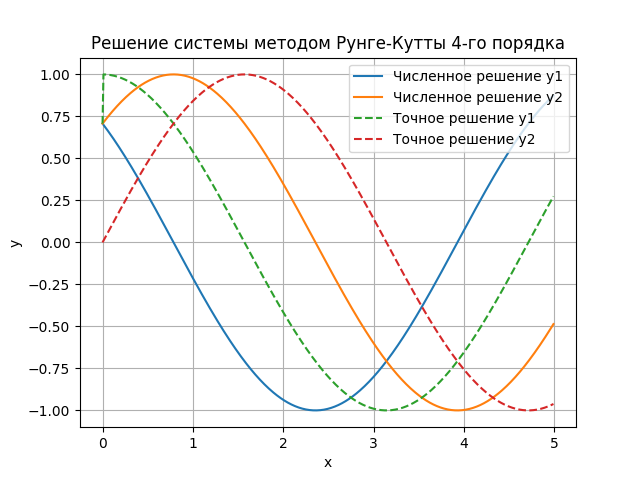
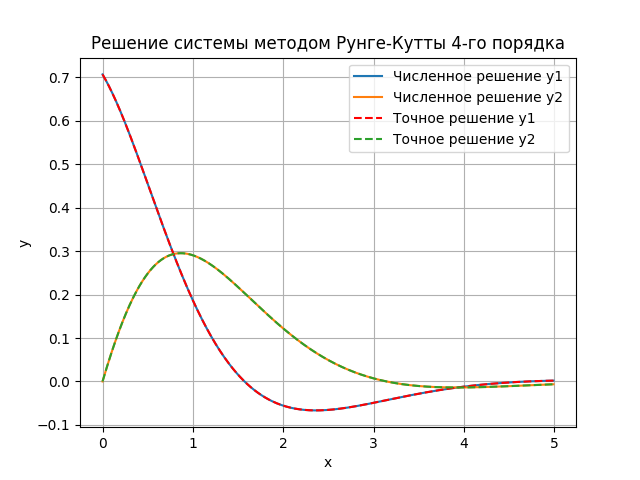
done

diff --git a/kursovaya/task2.py b/kursovaya/task2.py
@@ -23,7 +23,7 @@ def exact_solution(x, e):
 def max_error(y_num, y_exact):
     return np.max(np.abs(y_num - y_exact))
 
-def solve_system(h_values, e):
+def solve_system_e(h_values, e):
     max_errors = []
     for h in h_values:
         t_values = np.arange(t0, t_end, h)
@@ -36,25 +36,50 @@ def solve_system(h_values, e):
             y2_values[i] = y2
             y1, y2 = rk4_step(y1, y2, h)
         y1_exact, y2_exact = exact_solution(t_values, e)
-        max_errors.append(max_error(y1_values, y1_exact))
+        max_errors.append(max(max_error(y1_values, y1_exact), max_error(y2_values, y2_exact)))
     return max_errors
 
+def solve_system_eh4(h_values, e):
+    max_errors = []
+    for h in h_values:
+        t_values = np.arange(t0, t_end, h)
+        y1_values = np.zeros_like(t_values)
+        y2_values = np.zeros_like(t_values)
+        y1 = y1_0
+        y2 = y2_0
+        for i, t in enumerate(t_values):
+            y1_values[i] = y1
+            y2_values[i] = y2
+            y1, y2 = rk4_step(y1, y2, h)
+        y1_exact, y2_exact = exact_solution(t_values, e)
+        max_errors.append(max(max_error(y1_values, y1_exact), max_error(y2_values, y2_exact))/h**4)
+    return max_errors
 
 y1_0 = 1 / np.sqrt(2) 
-y2_0 = 1 / np.sqrt(2) 
-e = 0 
+y2_0 = 0  
+e = 2.71828182846
 t0 = 0
 t_end = 5
 h_values = np.linspace(0.001, 0.1, 100) 
 
 
-max_errors = solve_system(h_values, e)
+max_errors_e = solve_system_e(h_values, e)
+max_errors_eh4 = solve_system_eh4(h_values, e)
 
+plt.figure(figsize=(16, 7))
 
-plt.plot(h_values, max_errors)
+plt.subplot(1, 2, 1)
+plt.plot(h_values, max_errors_e)
 plt.xlabel('Шаг интегрирования, h')
 plt.ylabel('Максимальная погрешность')
-plt.title('Зависимость максимальной погрешности от выбранного шага h')
+plt.title('Зависимость максимальной погрешности e от выбранного шага h')
+plt.grid(True)
+plt.subplot(1, 2, 2)
+plt.plot(h_values, max_errors_eh4)
+plt.xlabel('Шаг интегрирования, h')
+plt.ylabel('Максимальная погрешность')
+plt.title('Зависимость максимальной погрешности e/h^4 от выбранного шага h')
 plt.grid(True)
 plt.savefig('plot_max_err.png')
 plt.show()
+

diff --git a/kursovaya/test_task.py b/kursovaya/test_task.py
@@ -21,8 +21,8 @@ def exact_solution(x, e):
     return y1_exact, y2_exact
 
 y1_0 = 1 / np.sqrt(2)  
-y2_0 = 1 / np.sqrt(2)  
-e = 0
+y2_0 = 0  
+e = 2.71828182846
 t0 = 0
 t_end = 5
 h = 0.01
@@ -43,7 +43,7 @@ y1_exact, y2_exact = exact_solution(t_values, e)
 
 plt.plot(t_values, y1_values, label='Численное решение y1')
 plt.plot(t_values, y2_values, label='Численное решение y2')
-plt.plot(t_values, y1_exact, label='Точное решение y1', linestyle='--')
+plt.plot(t_values, y1_exact, label='Точное решение y1', linestyle='--', color='red')
 plt.plot(t_values, y2_exact, label='Точное решение y2', linestyle='--')
 plt.xlabel('x')
 plt.ylabel('y')
